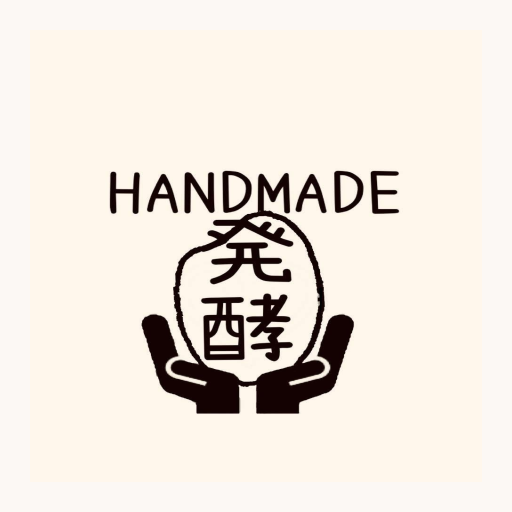
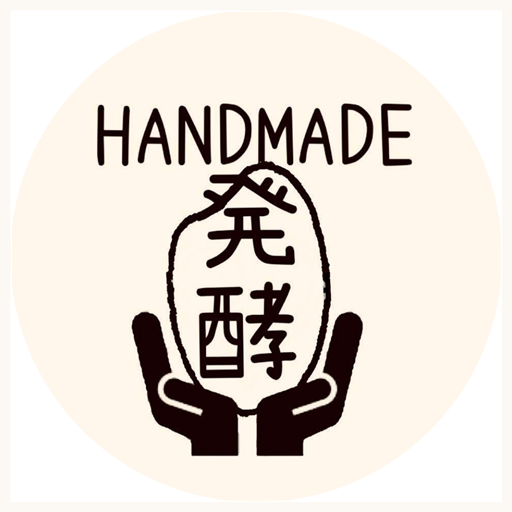
①枠線細く②管理者のみ編集③干瓢ふりがな④アイコン大きく

Changed region(s): [[0.1875, 0.1875, 0.8125, 0.9062]]

diff --git a/index.html b/index.html
@@ -46,7 +46,7 @@
     height: 56px;
     border-radius: 50%;
     flex-shrink: 0;
-    border: 2px solid var(--border);
+    border: 1px solid rgba(0,0,0,0.15);
     background: #fff;
     display: flex;
     align-items: center;
@@ -284,6 +284,21 @@
     z-index: 99;
   }
   .fab:hover { transform: scale(1.08); }
+  .admin-toggle {
+    position: fixed;
+    bottom: 24px; left: 16px;
+    width: 36px; height: 36px;
+    border-radius: 50%;
+    background: rgba(0,0,0,0.08);
+    color: #aaa;
+    border: none;
+    font-size: 16px;
+    cursor: pointer;
+    display: flex;
+    align-items: center;
+    justify-content: center;
+    z-index: 99;
+  }
 
   .modal-overlay {
     display: none;
@@ -396,7 +411,8 @@
   <div class="result-count" id="resultCount"></div>
   <div class="recipe-list" id="recipeList"></div>
 </main>
-<button class="fab" onclick="openAddModal()">＋</button>
+<button class="fab" id="fabBtn" onclick="openAddModal()" style="display:none">＋</button>
+<button class="admin-toggle" id="adminToggle" onclick="toggleAdmin()" title="管理者">⚙</button>
 <div class="modal-overlay" id="modalOverlay" onclick="closeModal(event)">
   <div class="modal">
     <div class="modal-title" id="modalTitle">レシピを追加</div>
@@ -469,7 +485,7 @@ const initialRecipes = [
     ingredients:[['卵','3個'],['はんぺん','1枚（たら50g）'],['塩麹','小さじ1'],['赤酒','大さじ2']],
     steps:['フードプロセッサーに全ての材料を入れ混ぜ合わせる','フライパンに油（分量外）を引き3を入れ蓋をして弱火で20分焼く','20分経ったら裏返し1分ほど焼く'],
     memo:'巻き簾で巻けば伊達巻に。19cmフライパン使用'},
-  { id:3, name:'干瓢煮', genre:'野菜おかず', condiments:['塩麹','しょうゆ麹','赤酒'], session:'第1回',
+  { id:3, name:'干瓢煮（かんぴょうに）', genre:'野菜おかず', condiments:['塩麹','しょうゆ麹','赤酒'], session:'第1回',
     ingredients:[['干瓢','20g'],['水','200cc'],['塩麹','小さじ1'],['醤油麹','大さじ1'],['赤酒','大さじ2']],
     steps:['ボウルに干瓢、水、塩麹を入れ干瓢をよく揉み5分ほど置いておく','鍋に1と赤酒醤油麹を入れ蓋をして中火で15分煮込む','15分経ったら蓋を開け煮汁を飛ばす'],
     memo:'醤油麹大さじ1：赤酒大さじ2の比率'},
@@ -745,6 +761,27 @@ const initialRecipes = [
 ];
 
 const APP_VERSION = '2';
+const ADMIN_PASSWORD = 'hakko2024';
+let isAdmin = false;
+
+function toggleAdmin() {
+  if (isAdmin) {
+    isAdmin = false;
+    document.getElementById('fabBtn').style.display = 'none';
+    document.getElementById('adminToggle').style.color = '#aaa';
+    renderRecipes();
+  } else {
+    const pw = prompt('管理者パスワードを入力してください');
+    if (pw === ADMIN_PASSWORD) {
+      isAdmin = true;
+      document.getElementById('fabBtn').style.display = 'flex';
+      document.getElementById('adminToggle').style.color = '#7a4f2e';
+      renderRecipes();
+    } else if (pw !== null) {
+      alert('パスワードが違います');
+    }
+  }
+}
 if (localStorage.getItem('appVersion') !== APP_VERSION) {
   localStorage.removeItem('fermentRecipes');
   localStorage.setItem('appVersion', APP_VERSION);
@@ -857,7 +894,7 @@ function renderAll() {
         </div>` : ''}
         ${r.memo ? `
         <div class="memo-box">💡 ${r.memo}</div>` : ''}
-        <button class="edit-btn" onclick="event.stopPropagation(); openEditModal(${r.id})">✏ 編集・修正</button>
+        ${isAdmin ? `<button class="edit-btn" onclick="event.stopPropagation(); openEditModal(${r.id})">✏ 編集・修正</button>` : ''}
       </div>
     </div>
   `).join('');
